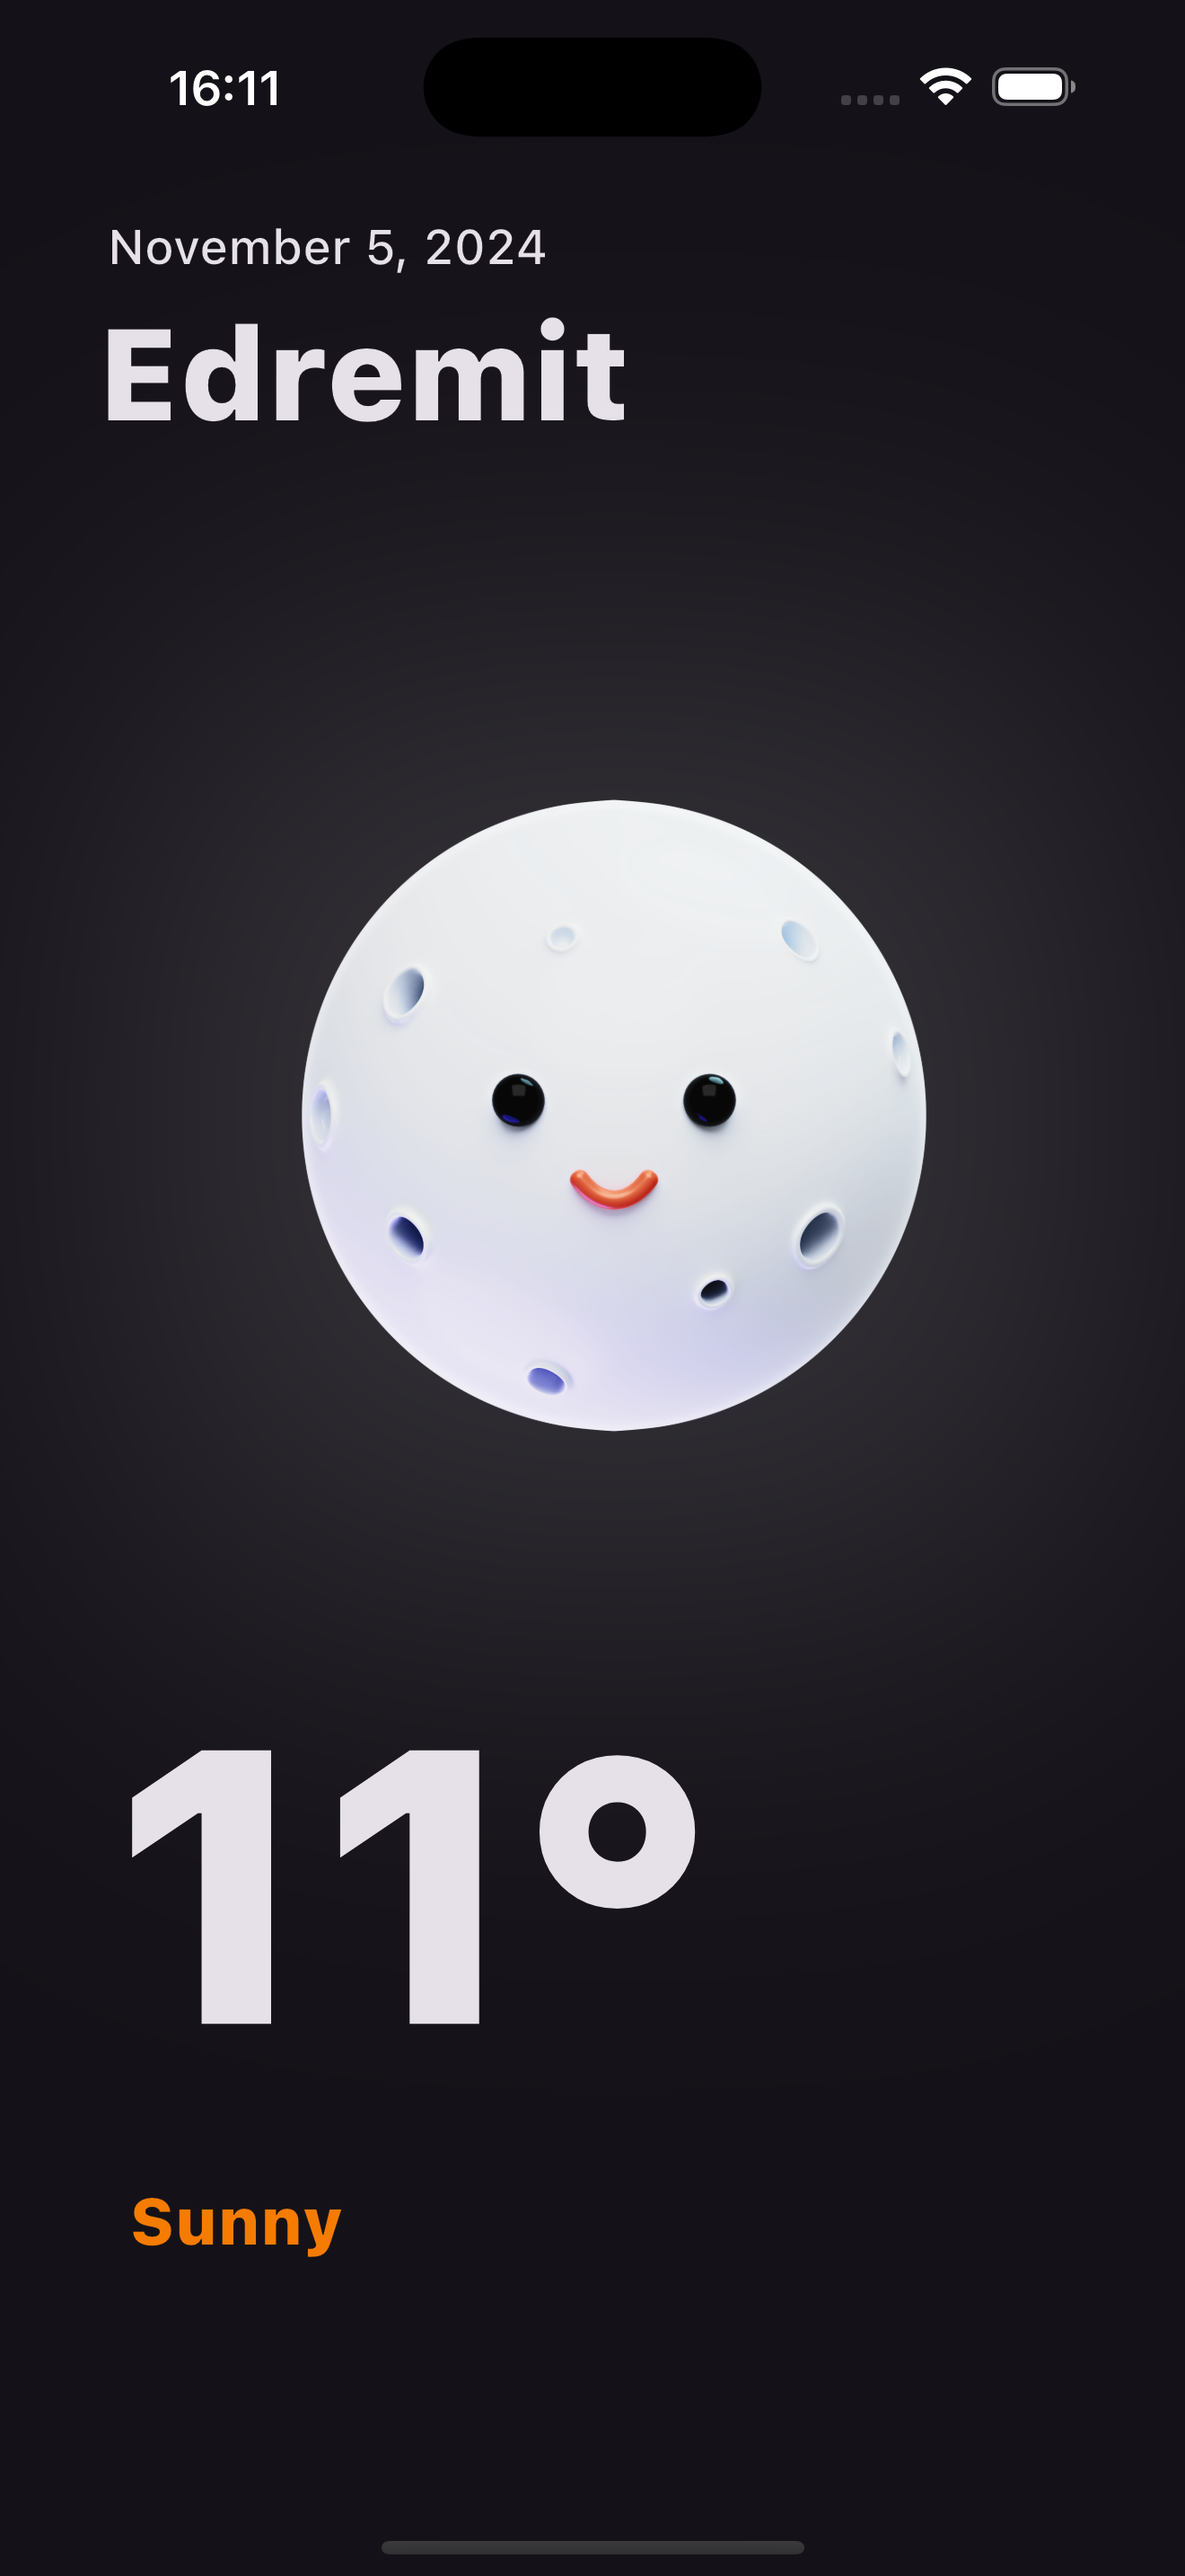
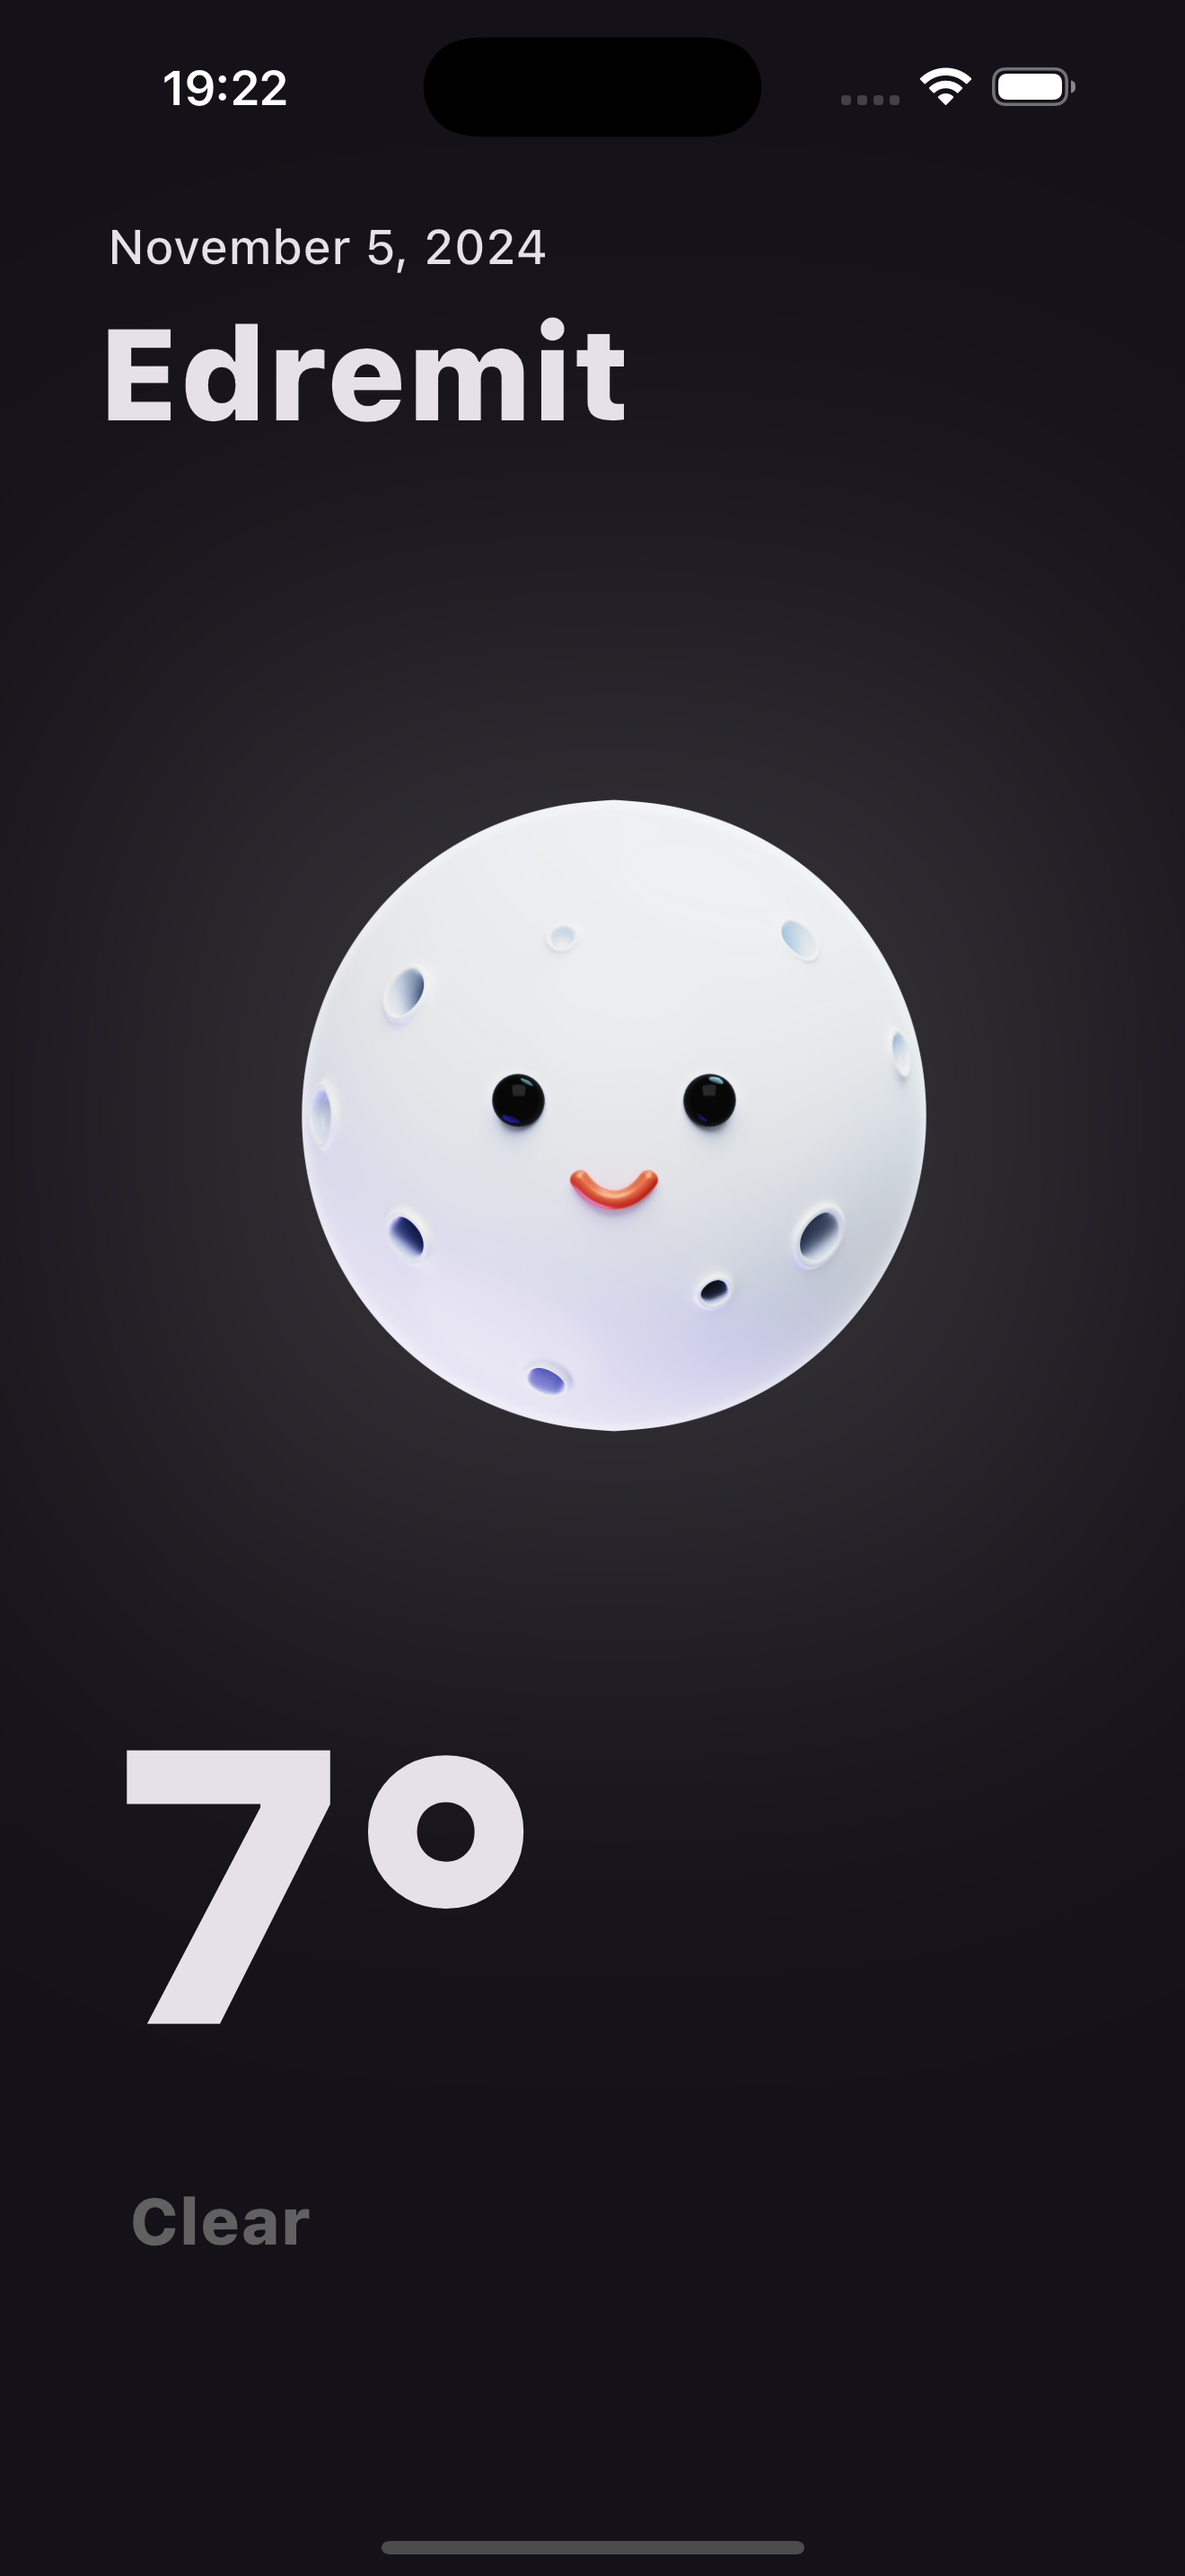
fix: wrong color for clear condition

Changed region(s): [[0.0932, 0.6517, 0.5902, 0.8068], [0.0932, 0.8379, 0.2795, 0.8999], [0.1553, 0.031, 0.2485, 0.0621]]

diff --git a/client/lib/main.dart b/client/lib/main.dart
@@ -161,8 +161,7 @@ class _MyHomePageState extends State<MyHomePage> {
     String lowercaseCondition = condition.toLowerCase();
 
     // Check if the condition contains any of these keywords
-    if (lowercaseCondition.contains('sunny') ||
-        lowercaseCondition.contains('clear')) {
+    if (lowercaseCondition.contains('sunny')) {
       return isLightTheme ? Colors.orange : Colors.orange.shade700;
     } else if (lowercaseCondition.contains('cloud')) {
       return isLightTheme ? Colors.blue.shade200 : Colors.blue.shade400;
